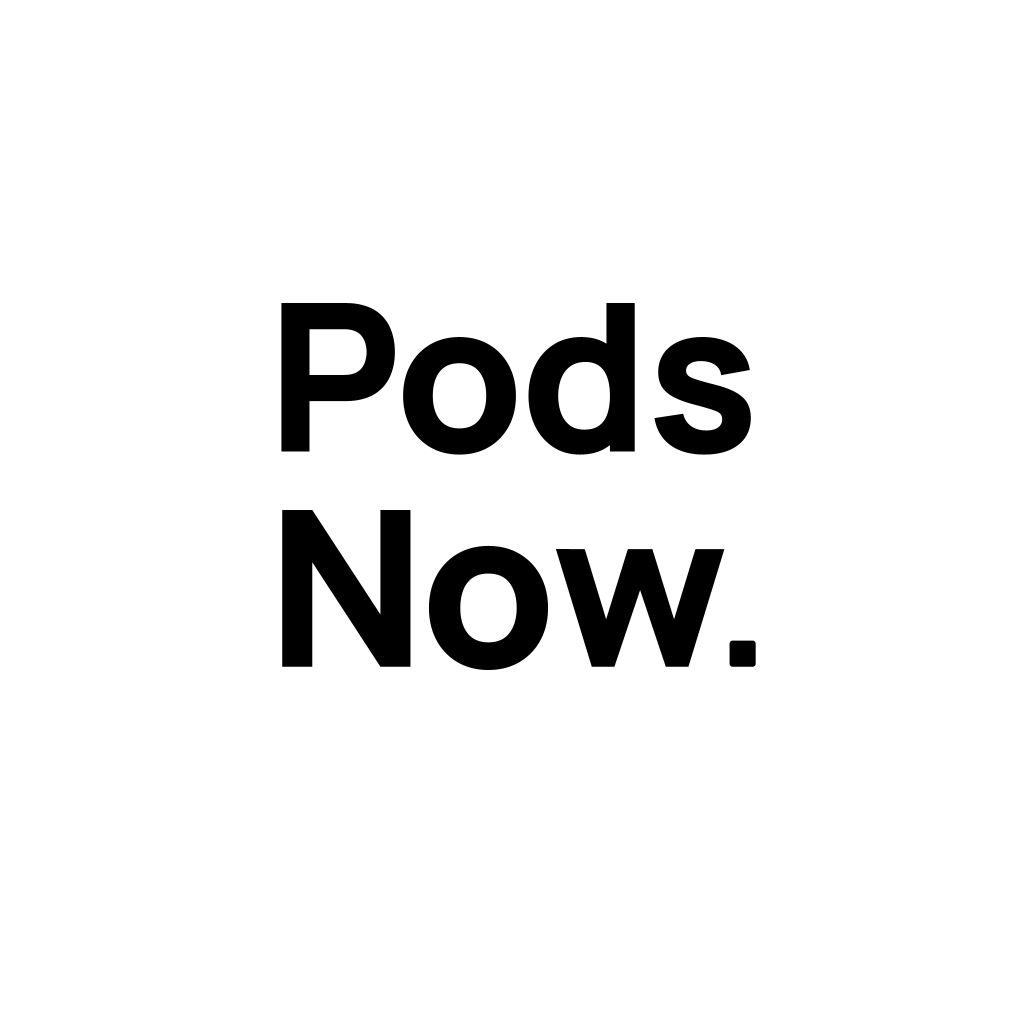
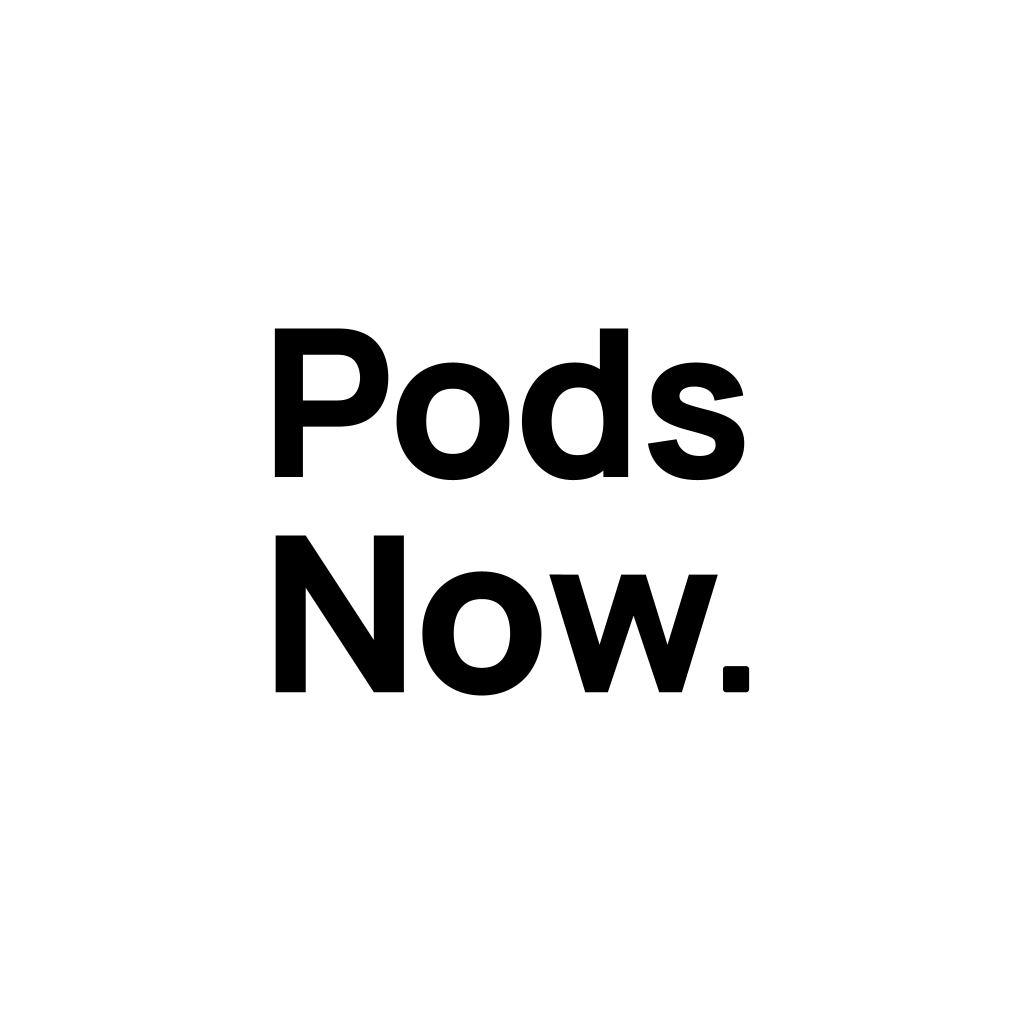
Android のアイコン中心ずれとスプラッシュのロゴ見切れを直す
- アイコンの 2 段組を、実際の描画範囲の中心がキャンバス中心に来るよう自動配置する
  （従来は約 25px / 1024 上・7px 右にずれていた）。iOS / 小サイズも同様。
- Android 12+ のスプラッシュは 288dp 枠を直径 192dp の円で切り抜くため、
  expo-splash-screen の android.imageWidth を 176 にする（iOS は 240 のまま）。
- generate.py に Android スプラッシュの円形マスク検査を追加。

Claude-Session: https://claude.ai/code/session_01Fh5Z2xaYXoAJ2EnMmNLRQU

Changed region(s): [[0.25, 0.2812, 0.75, 0.4688], [0.25, 0.5, 0.75, 0.6875]]

diff --git a/scripts/brand/geometry.py b/scripts/brand/geometry.py
@@ -57,6 +57,9 @@ WORDMARK_W, WORDMARK_H = 670, 130
 WORDMARK_LINE = (8, 7, 650)  # (left, top, width)
 
 # アイコンの 2 段組。(left, top, width)。`Now.` は点まで含めた幅を `Pods` とそろえる。
+# left / top は 2 行の相対位置（左端の共有と行間）だけに効く。最終的な位置は `two_lines` が
+# 実際の描画範囲の中心をキャンバス中心に合わせて決める（字形のサイドベアリングや
+# 行間の見込み違いで上下左右にずれないように）。
 ICON_LINES = ((155, 220, 714), (155, 521, 714))  # iOS / ストア（マスク無しの全面）
 ADAPTIVE_LINES = ((267, 303, 490), (267, 510, 490))  # Android 前景・単色（中央の安全域）
 SMALL_LINES = ((135, 214, 754), (135, 535, 754))  # 32px 以下の小サイズ・favicon
@@ -163,9 +166,28 @@ def wordmark(left: float, top: float, width: float):
     return line('PodsNow.', left, top, width)
 
 
-def two_lines(spec):
+def shift(lines, dx: float, dy: float):
+    """配置済みの行を平行移動する。"""
+    out = []
+    for ln in lines:
+        contours = [
+            [(cmd, tuple(c + (dx if i % 2 == 0 else dy) for i, c in enumerate(v))) for cmd, v in contour]
+            for contour in ln['contours']
+        ]
+        dot = None
+        if ln['dot']:
+            x, y, size, r = ln['dot']
+            dot = (x + dx, y + dy, size, r)
+        out.append({'contours': contours, 'dot': dot})
+    return out
+
+
+def two_lines(spec, cx: float = CANVAS / 2, cy: float = CANVAS / 2):
+    """アイコンの 2 段組。描画範囲（`ink_extent`）の中心を (cx, cy) に合わせる。"""
     (l1, t1, w1), (l2, t2, w2) = spec
-    return [line('Pods', l1, t1, w1), line('Now.', l2, t2, w2)]
+    lines = [line('Pods', l1, t1, w1), line('Now.', l2, t2, w2)]
+    x0, y0, x1, y1 = ink_extent(lines)
+    return shift(lines, cx - (x0 + x1) / 2, cy - (y0 + y1) / 2)
 
 
 def extent(lines) -> tuple[float, float, float, float]:
@@ -177,6 +199,39 @@ def extent(lines) -> tuple[float, float, float, float]:
             for _cmd, v in contour:
                 xs += v[0::2]
                 ys += v[1::2]
+        if ln['dot']:
+            x, y, size, _r = ln['dot']
+            xs += [x, x + size]
+            ys += [y, y + size]
+    return min(xs), min(ys), max(xs), max(ys)
+
+
+def ink_extent(lines) -> tuple[float, float, float, float]:
+    """実際に塗られる範囲（x0, y0, x1, y1）。二次曲線は極値を解いて求める（制御点は含めない）。"""
+    xs: list[float] = []
+    ys: list[float] = []
+
+    def quad_extrema(p0: float, p1: float, p2: float) -> list[float]:
+        den = p0 - 2 * p1 + p2
+        if den == 0:
+            return []
+        t = (p0 - p1) / den
+        if 0 < t < 1:
+            return [(1 - t) ** 2 * p0 + 2 * (1 - t) * t * p1 + t * t * p2]
+        return []
+
+    for ln in lines:
+        for contour in ln['contours']:
+            px = py = 0.0
+            for cmd, v in contour:
+                if cmd == 'Q':
+                    xs += [v[2], *quad_extrema(px, v[0], v[2])]
+                    ys += [v[3], *quad_extrema(py, v[1], v[3])]
+                    px, py = v[2], v[3]
+                else:
+                    px, py = v
+                    xs.append(px)
+                    ys.append(py)
         if ln['dot']:
             x, y, size, _r = ln['dot']
             xs += [x, x + size]

diff --git a/scripts/brand/generate.py b/scripts/brand/generate.py
@@ -26,6 +26,11 @@ APP_JSON = os.path.join(ROOT, 'app.json')
 # Android のアダプティブアイコンで見えることが保証される半径（前景 108dp の中央 66dp 相当）。
 ADAPTIVE_SAFE_RADIUS = g.CANVAS * 0.66 / 2
 
+# Android 12+ のスプラッシュ（SplashScreen API）。expo-splash-screen は画像を imageWidth（dp）の
+# 正方形に contain で収め、288dp の枠の中央に置く。背景なしのアイコンは直径 192dp の円で切り抜かれる。
+# 横長のロゴは幅だけでなく四隅がこの円に収まる必要がある。余白を 6dp 見込む。
+ANDROID_SPLASH_SAFE_RADIUS_DP = 192 / 2 - 6
+
 
 def split(lines):
     """字と点を別の層にする（色が違うため）。"""
@@ -67,6 +72,25 @@ def app_wordmark() -> str:
     )
 
 
+def splash_plugin() -> dict:
+    with open(APP_JSON, encoding='utf-8') as f:
+        cfg = json.load(f)['expo']
+    for p in cfg.get('plugins', []):
+        if isinstance(p, list) and p[0] == 'expo-splash-screen':
+            return p[1]
+    return {}
+
+
+def android_splash_radius_dp() -> tuple[float, float]:
+    """Android のスプラッシュで、ロゴの中心からいちばん遠い点までの距離（dp）と imageWidth。"""
+    opts = splash_plugin()
+    width = opts.get('android', {}).get('imageWidth', opts.get('imageWidth', 100))
+    splash = [g.wordmark(*g.SPLASH_LINE)]
+    rad = g.max_radius(splash, g.SPLASH_W / 2, g.SPLASH_H / 2)
+    # contain なので長辺（幅）が imageWidth になる。
+    return rad * width / max(g.SPLASH_W, g.SPLASH_H), width
+
+
 def check_app_json() -> list[str]:
     with open(APP_JSON, encoding='utf-8') as f:
         cfg = json.load(f)['expo']
@@ -86,6 +110,15 @@ def main() -> int:
     print(f'前景の最大描画半径: {rad:.0f}px（アダプティブ安全域 {ADAPTIVE_SAFE_RADIUS:.0f}px）')
     if rad > ADAPTIVE_SAFE_RADIUS:
         print('  ! 前景がアダプティブアイコンのマスクで欠ける。ADAPTIVE_LINES を縮めること。')
+        return 1
+    srad, swidth = android_splash_radius_dp()
+    print(
+        f'Android スプラッシュのロゴ最大半径: {srad:.0f}dp（imageWidth {swidth}dp、'
+        f'安全域 {ANDROID_SPLASH_SAFE_RADIUS_DP:.0f}dp）'
+    )
+    if srad > ANDROID_SPLASH_SAFE_RADIUS_DP:
+        print('  ! Android 12+ のスプラッシュでロゴが円形マスクに欠ける。')
+        print('    app.json の expo-splash-screen の android.imageWidth を小さくすること。')
         return 1
     for name, spec in (('iOS', g.ICON_LINES), ('小サイズ', g.SMALL_LINES)):
         x0, y0, x1, y1 = g.extent(g.two_lines(spec))

diff --git a/assets/brand/README.md b/assets/brand/README.md
@@ -67,7 +67,17 @@ python3 scripts/brand/generate.py
 ## 安全域
 
 Android のアダプティブアイコンは前景の**中央 66%（半径 338px / 1024px 中）**しか見える保証がない。
-`generate.py` は生成前にこれを検査し、はみ出していれば失敗する（現在の前景は最大 311px）。
+`generate.py` は生成前にこれを検査し、はみ出していれば失敗する（現在の前景は最大 300px）。
+
+アイコンの 2 段組は、`geometry.py` の `ICON_LINES` などで行の大きさと行間だけを決め、位置は
+`two_lines` が**実際の描画範囲の中心をキャンバス中心に合わせて**決める。`top` / `left` を手で
+合わせると、字形のサイドベアリングや行間の見込み違いで上下左右にずれる（Android のランチャーで
+上ずって見えた）。
+
+Android 12+ のスプラッシュ（SplashScreen API）は、画像を `imageWidth` dp の正方形に収めて 288dp の枠の
+中央に置き、**直径 192dp の円で切り抜く**。横長のロゴは四隅までこの円に入らないと左右が欠けるので、
+`app.json` の `expo-splash-screen` で `android.imageWidth` を 176 にしている（iOS は 240 のまま）。
+`generate.py` はロゴの最大半径が 90dp（192dp の円から余白 6dp）を超えると失敗する。
 
 ## 注意
 
